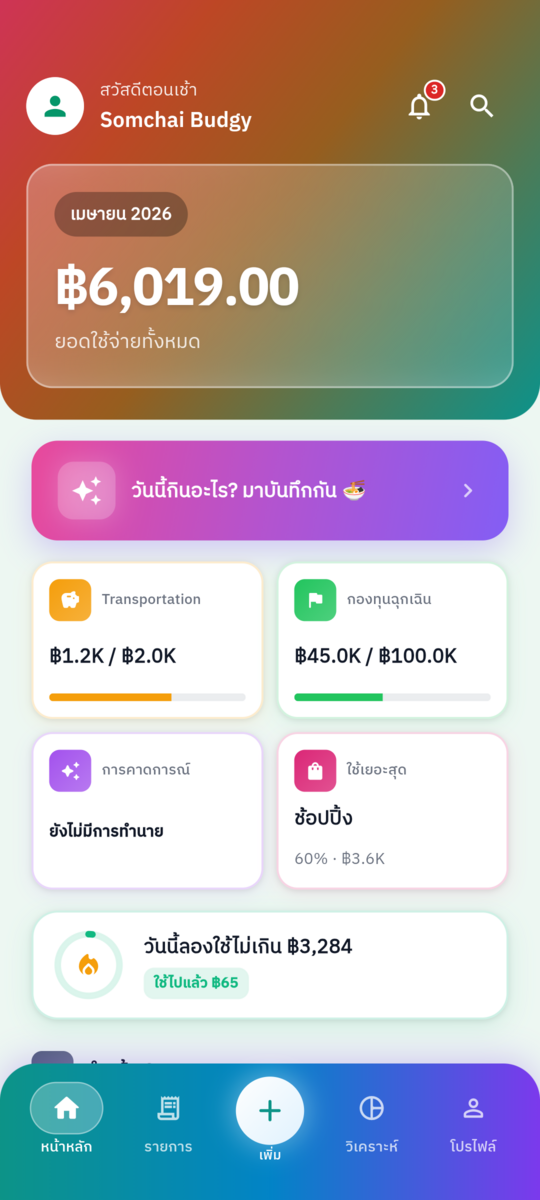
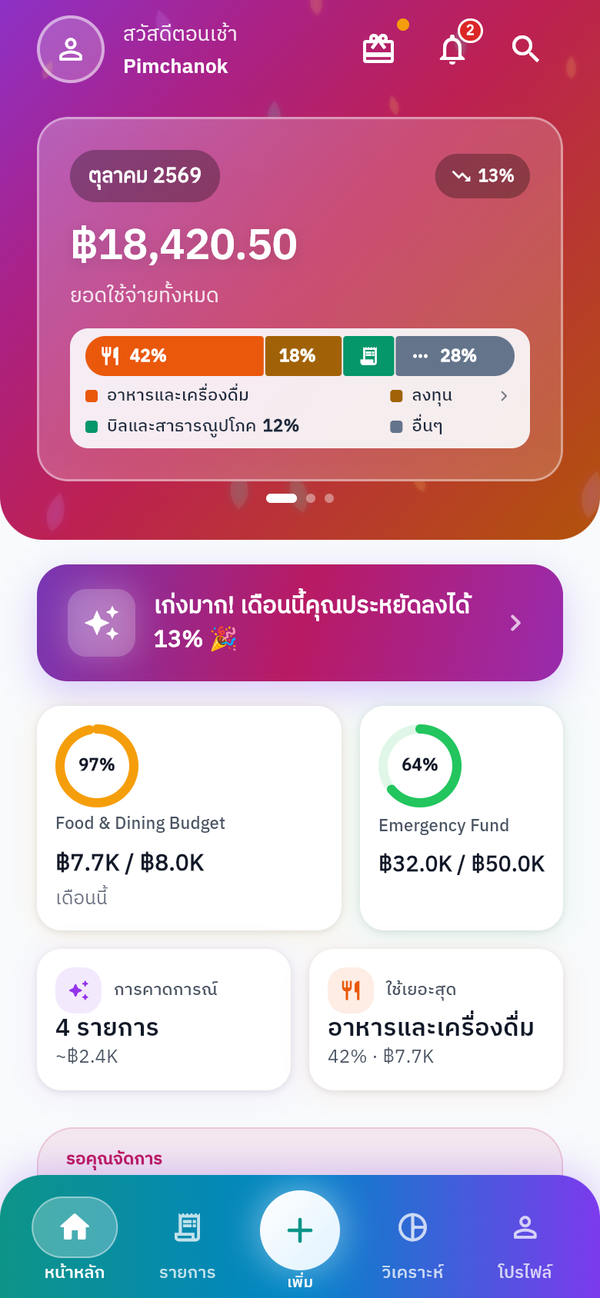
feat(landing): swipeable phone showcase and screenshots from the current app
The hero phone can now be dragged or swiped either way: the screen follows the
finger, commits past a quarter of its width or on a flick, snaps back
otherwise, and wraps at both ends. Vertical drags still scroll the page
(touch-action: pan-y). Hover-pause now needs a real mouse pointer, because iOS
fires mouseenter on a tap and never mouseleave, which froze the autoplay.

Nine of the ten screens were May 2026 captures of an older UI. They are
re-shot at 2x from the Widgetbook catalog built at the current commit. The AI
icon picker keeps its old capture: the catalog renders nine identical
placeholder icons. The groups screen now shows a group's detail, and its
caption says so.

diff --git a/index.html b/index.html
@@ -495,7 +495,12 @@
       0 18px 36px rgba(30, 22, 70, 0.3);
     transform: rotate(3deg);
   }
-  .phone-screen { width: 100%; height: 100%; border-radius: 35px; overflow: hidden; position: relative; background: #F4F3F8; }
+  .phone-screen {
+    width: 100%; height: 100%; border-radius: 35px; overflow: hidden; position: relative; background: #F4F3F8;
+    /* Sideways drags belong to the carousel; vertical ones still scroll the page. */
+    touch-action: pan-y; cursor: grab; user-select: none; -webkit-user-select: none;
+  }
+  .phone-screen.dragging { cursor: grabbing; }
   .phone-img {
     position: absolute; inset: 0; width: 100%; height: 100%; object-fit: cover;
     transform: translate3d(100%, 0, 0);
@@ -1123,7 +1128,7 @@
             <img class="phone-img" src="assets/screens/th-04-budgets.png" alt="งบประมาณ" loading="lazy">
             <img class="phone-img" src="assets/screens/th-05-calendar.png" alt="ปฏิทิน" loading="lazy">
             <img class="phone-img" src="assets/screens/th-06-ai-icons.png" alt="ไอคอนหมวดหมู่ AI" loading="lazy">
-            <img class="phone-img" src="assets/screens/th-07-groups.png" alt="กลุ่มเพื่อน" loading="lazy">
+            <img class="phone-img" src="assets/screens/th-07-groups.png" alt="กลุ่มค่าใช้จ่าย" loading="lazy">
             <img class="phone-img" src="assets/screens/th-08-slip-scan.png" alt="สแกนสลิปอัตโนมัติ" loading="lazy">
             <img class="phone-img" src="assets/screens/th-09-statement.png" alt="นำเข้า Statement PDF" loading="lazy">
             <img class="phone-img" src="assets/screens/th-10-split-bill.png" alt="หารบิลกับเพื่อน" loading="lazy">
@@ -1664,7 +1669,10 @@
     btn.addEventListener('click', () => applyCurrency(btn.dataset.currency));
   });
 
-  // ── Hero phone rotator (auto-cycle through real app screenshots) ──
+  // ── Hero phone rotator: auto-cycles through real app screenshots, and the
+  // visitor can drag or swipe it either way. The screen follows the finger and
+  // commits past a quarter of its width (or on a quick flick). Vertical drags
+  // are left to the browser (touch-action: pan-y) so the page still scrolls. ──
   const rotator = document.getElementById('phoneRotator');
   if (rotator) {
     const imgs = Array.from(rotator.querySelectorAll('.phone-img'));
@@ -1676,7 +1684,7 @@
       b.setAttribute('role', 'tab');
       b.setAttribute('aria-label', img.alt);
       if (i === 0) b.setAttribute('aria-current', 'true');
-      b.addEventListener('click', () => { show(i); start(); });
+      b.addEventListener('click', () => { show(i, i < idx ? -1 : 1); start(); });
       dotsWrap.appendChild(b);
       return b;
     });
@@ -1697,24 +1705,35 @@
     let paused = false;
     let transitioning = false;
     const TRANSITION_MS = 620;
+    const SETTLE_MS = 360;
 
-    function show(next) {
+    // dir 1: the new screen enters from the right; dir -1: from the left.
+    function show(next, dir) {
       if (next === idx || transitioning) return;
       transitioning = true;
       const oldImg = imgs[idx];
       const newImg = imgs[next];
-      // Slide carousel: old slides off to the left, new enters from the right
-      oldImg.classList.remove('active');
-      oldImg.classList.add('leaving');
-      newImg.classList.add('active');
+      if (dir < 0) {
+        // Park the new screen where a leaving one rests, then slide it in.
+        newImg.style.transition = 'none';
+        newImg.classList.add('leaving');
+        newImg.offsetWidth;
+        newImg.style.transition = '';
+        newImg.classList.remove('leaving');
+        oldImg.classList.remove('active');
+        newImg.classList.add('active');
+      } else {
+        oldImg.classList.remove('active');
+        oldImg.classList.add('leaving');
+        newImg.classList.add('active');
+      }
       idx = next;
       syncNav();
       setTimeout(() => {
-        // Reset old image back to right offscreen WITHOUT animating (so it's
-        // ready for next time it becomes active)
+        // Put the old screen back off-screen right WITHOUT animating, ready for next time.
         oldImg.style.transition = 'none';
         oldImg.classList.remove('leaving');
-        oldImg.offsetWidth; // force reflow
+        oldImg.offsetWidth;
         oldImg.style.transition = '';
         transitioning = false;
       }, TRANSITION_MS);
@@ -1722,14 +1741,91 @@
 
     function tick() {
       if (paused) return;
-      show((idx + 1) % imgs.length);
+      show((idx + 1) % imgs.length, 1);
     }
 
     function start() { stop(); if (!reduceMotion) timer = setInterval(tick, 3600); }
     function stop() { if (timer) { clearInterval(timer); timer = null; } }
 
-    rotator.addEventListener('mouseenter', () => { paused = true; });
-    rotator.addEventListener('mouseleave', () => { paused = false; });
+    // Only a real mouse pauses on hover. On a phone a tap fires mouseenter and never
+    // mouseleave, which would freeze the autoplay for good.
+    rotator.addEventListener('pointerenter', (e) => { if (e.pointerType === 'mouse') paused = true; });
+    rotator.addEventListener('pointerleave', (e) => { if (e.pointerType === 'mouse') paused = false; });
+
+    // ── Drag / swipe ──
+    let drag = null;
+    const px = (el, x, animate) => {
+      el.style.transition = animate ? 'transform ' + SETTLE_MS + 'ms cubic-bezier(0.16, 1, 0.3, 1)' : 'none';
+      el.style.transform = 'translate3d(' + x + 'px, 0, 0)';
+    };
+    function clearInline() {
+      imgs.forEach((el) => { el.style.transition = 'none'; el.style.transform = ''; el.style.zIndex = ''; });
+      rotator.offsetWidth;
+      imgs.forEach((el) => { el.style.transition = ''; });
+    }
+    function endDrag(commit) {
+      const d = drag; drag = null;
+      if (!d || !d.locked) return;
+      rotator.classList.remove('dragging');
+      const w = rotator.clientWidth;
+      const dir = d.dx < 0 ? 1 : -1;
+      transitioning = true;
+      if (commit) {
+        px(imgs[idx], -dir * w, true);
+        px(imgs[d.next], 0, true);
+      } else {
+        px(imgs[idx], 0, true);
+        px(imgs[d.next], dir * w, true);
+      }
+      setTimeout(() => {
+        if (commit) {
+          imgs[idx].classList.remove('active');
+          idx = d.next;
+          imgs[idx].classList.add('active');
+          syncNav();
+        }
+        clearInline();
+        transitioning = false;
+      }, SETTLE_MS + 30);
+      start();
+    }
+    rotator.addEventListener('pointerdown', (e) => {
+      if (transitioning || imgs.length < 2) return;
+      if (e.pointerType === 'mouse' && e.button !== 0) return;
+      drag = { x: e.clientX, y: e.clientY, id: e.pointerId, t: performance.now(), dx: 0, locked: false, next: -1 };
+    });
+    rotator.addEventListener('pointermove', (e) => {
+      if (!drag || e.pointerId !== drag.id) return;
+      const dx = e.clientX - drag.x;
+      if (!drag.locked) {
+        if (Math.abs(e.clientY - drag.y) > 10 && Math.abs(e.clientY - drag.y) > Math.abs(dx)) { drag = null; return; }
+        if (Math.abs(dx) < 6) return;
+        drag.locked = true;
+        paused = true; stop();
+        rotator.classList.add('dragging');
+        try { rotator.setPointerCapture(e.pointerId); } catch (err) {}
+      }
+      const w = rotator.clientWidth;
+      const next = dx < 0 ? (idx + 1) % imgs.length : (idx - 1 + imgs.length) % imgs.length;
+      if (drag.next !== next) {
+        if (drag.next >= 0) { imgs[drag.next].style.transform = ''; imgs[drag.next].style.zIndex = ''; }
+        drag.next = next;
+        imgs[next].style.zIndex = '2';
+      }
+      drag.dx = dx;
+      px(imgs[idx], dx, false);
+      px(imgs[next], (dx < 0 ? w : -w) + dx, false);
+    });
+    const release = (e) => {
+      if (!drag || e.pointerId !== drag.id) return;
+      const w = rotator.clientWidth;
+      const speed = Math.abs(drag.dx) / Math.max(1, performance.now() - drag.t);
+      const commit = e.type === 'pointerup' && (Math.abs(drag.dx) > w * 0.25 || (speed > 0.45 && Math.abs(drag.dx) > 24));
+      paused = false;
+      endDrag(commit);
+    };
+    rotator.addEventListener('pointerup', release);
+    rotator.addEventListener('pointercancel', release);
 
     const rotObs = new IntersectionObserver((entries) => {
       entries.forEach((entry) => entry.isIntersecting ? start() : stop());

diff --git a/test/browser.test.js b/test/browser.test.js
@@ -154,3 +154,74 @@ test('mobile: no horizontal overflow at 390px', async () => {
   assert.ok(sw <= 390, `scrollWidth ${sw} > 390`);
   await context.close();
 });
+
+// Drag the phone screen sideways with a real pointer, like a swipe.
+async function swipe(page, fromX, toX, steps = 8) {
+  const box = await page.locator('#phoneRotator').boundingBox();
+  const y = box.y + box.height / 2;
+  await page.mouse.move(box.x + box.width * fromX, y);
+  await page.mouse.down();
+  await page.mouse.move(box.x + box.width * toX, y + 2, { steps });
+  await page.mouse.up();
+  await page.waitForTimeout(700);
+}
+const activeIndex = (page) => page.evaluate(() =>
+  [...document.querySelectorAll('.phone-img')].findIndex((el) => el.classList.contains('active')));
+
+test('phone showcase: swiping left goes forward, swiping right goes back (and wraps)', async () => {
+  const { page, context, errors } = await open();
+  const count = await page.locator('.phone-img').count();
+  await page.locator('#phoneRotator').scrollIntoViewIfNeeded();
+  assert.equal(await activeIndex(page), 0);
+  await swipe(page, 0.8, 0.2);
+  assert.equal(await activeIndex(page), 1, 'swipe left should show the next screen');
+  assert.equal((await page.textContent('#phoneCaption')).trim(),
+    await page.locator('.phone-img').nth(1).getAttribute('alt'));
+  await swipe(page, 0.2, 0.8);
+  assert.equal(await activeIndex(page), 0, 'swipe right should come back');
+  await swipe(page, 0.2, 0.8);
+  assert.equal(await activeIndex(page), count - 1, 'swiping back from the first wraps to the last');
+  assert.equal(await page.locator('#phoneDots button[aria-current="true"]').count(), 1);
+  // Nothing is left half-dragged: every inline transform is cleared.
+  const stray = await page.evaluate(() => [...document.querySelectorAll('.phone-img')]
+    .filter((el) => el.style.transform !== '').length);
+  assert.equal(stray, 0, 'inline drag transforms must be cleared after a swipe');
+  assert.deepEqual(errors, []);
+  await context.close();
+});
+
+test('phone showcase: a slow short drag snaps back, and the page keeps vertical scroll', async () => {
+  const { page, context } = await open();
+  await page.locator('#phoneRotator').scrollIntoViewIfNeeded();
+  const box = await page.locator('#phoneRotator').boundingBox();
+  const y = box.y + box.height / 2;
+  await page.mouse.move(box.x + box.width * 0.5, y);
+  await page.mouse.down();
+  // 30px over ~200ms: slow enough that it is a drag, not a flick.
+  for (let i = 1; i <= 5; i++) { await page.mouse.move(box.x + box.width * 0.5 + i * 6, y); await page.waitForTimeout(40); }
+  await page.mouse.up();
+  await page.waitForTimeout(700);
+  assert.equal(await activeIndex(page), 0, 'a slow drag under a quarter of the width must not change the screen');
+  assert.equal(await page.locator('#phoneRotator').evaluate((el) => getComputedStyle(el).touchAction), 'pan-y');
+  await context.close();
+});
+
+test('phone showcase: a quick flick changes the screen even when it is short', async () => {
+  const { page, context } = await open();
+  await page.locator('#phoneRotator').scrollIntoViewIfNeeded();
+  await swipe(page, 0.55, 0.3, 3);
+  assert.equal(await activeIndex(page), 1);
+  await context.close();
+});
+
+test('phone showcase: a bare mouseenter (what iOS fires on a tap) does not freeze the autoplay', async () => {
+  // iOS Safari fires mouseenter on a tap and never mouseleave, so a hover-pause
+  // keyed on mouseenter stays paused for good. Only a real mouse pointer may pause.
+  const { page, context } = await open();
+  await page.locator('#phoneRotator').scrollIntoViewIfNeeded();
+  await page.locator('#phoneRotator').dispatchEvent('mouseenter');
+  const before = await activeIndex(page);
+  await page.waitForTimeout(4600);
+  assert.notEqual(await activeIndex(page), before, 'autoplay should keep going');
+  await context.close();
+});
